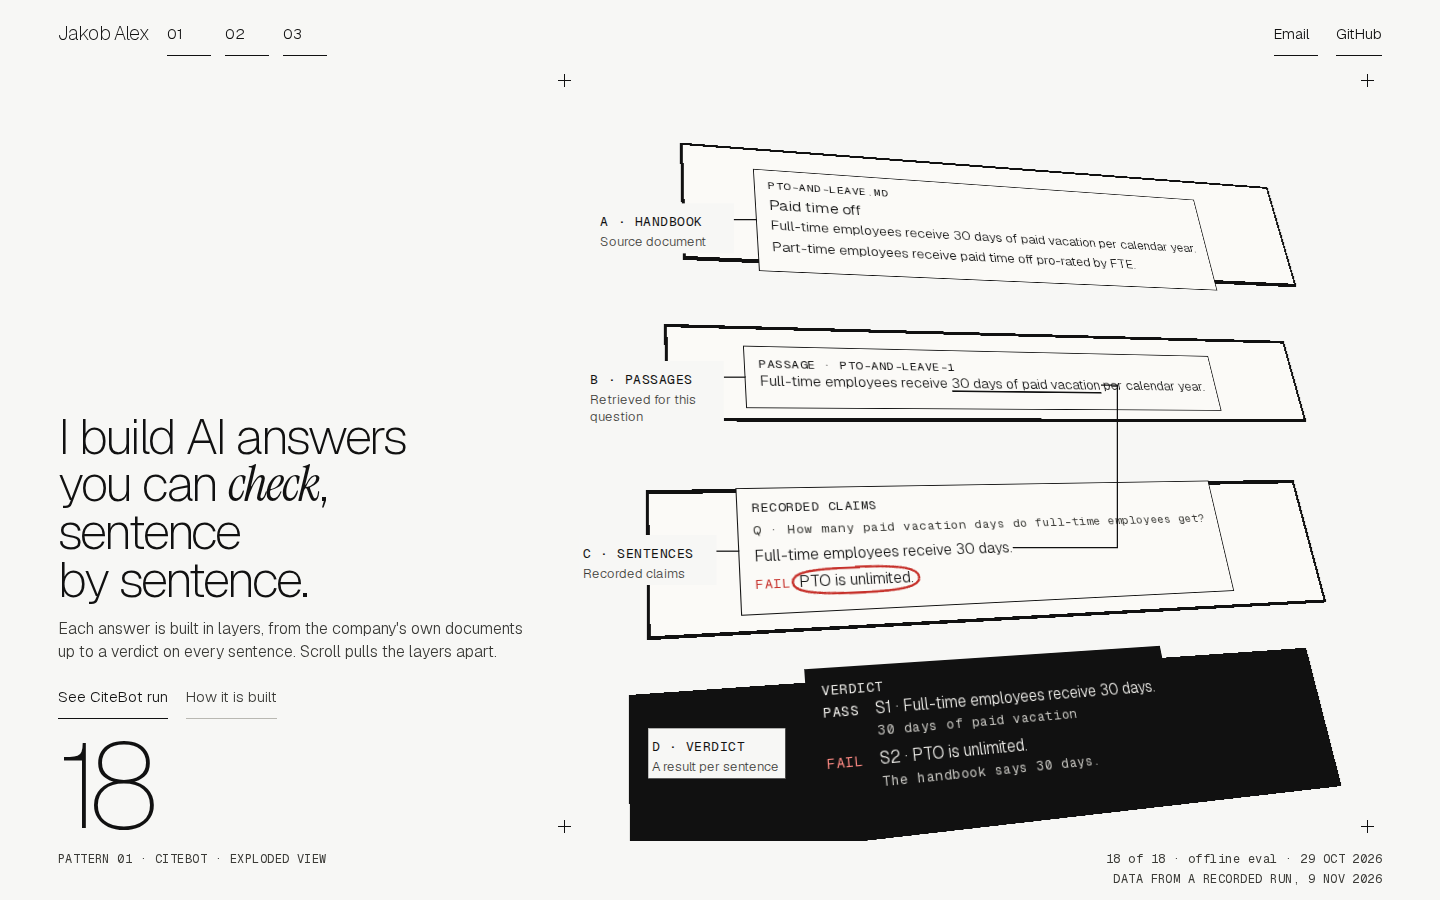
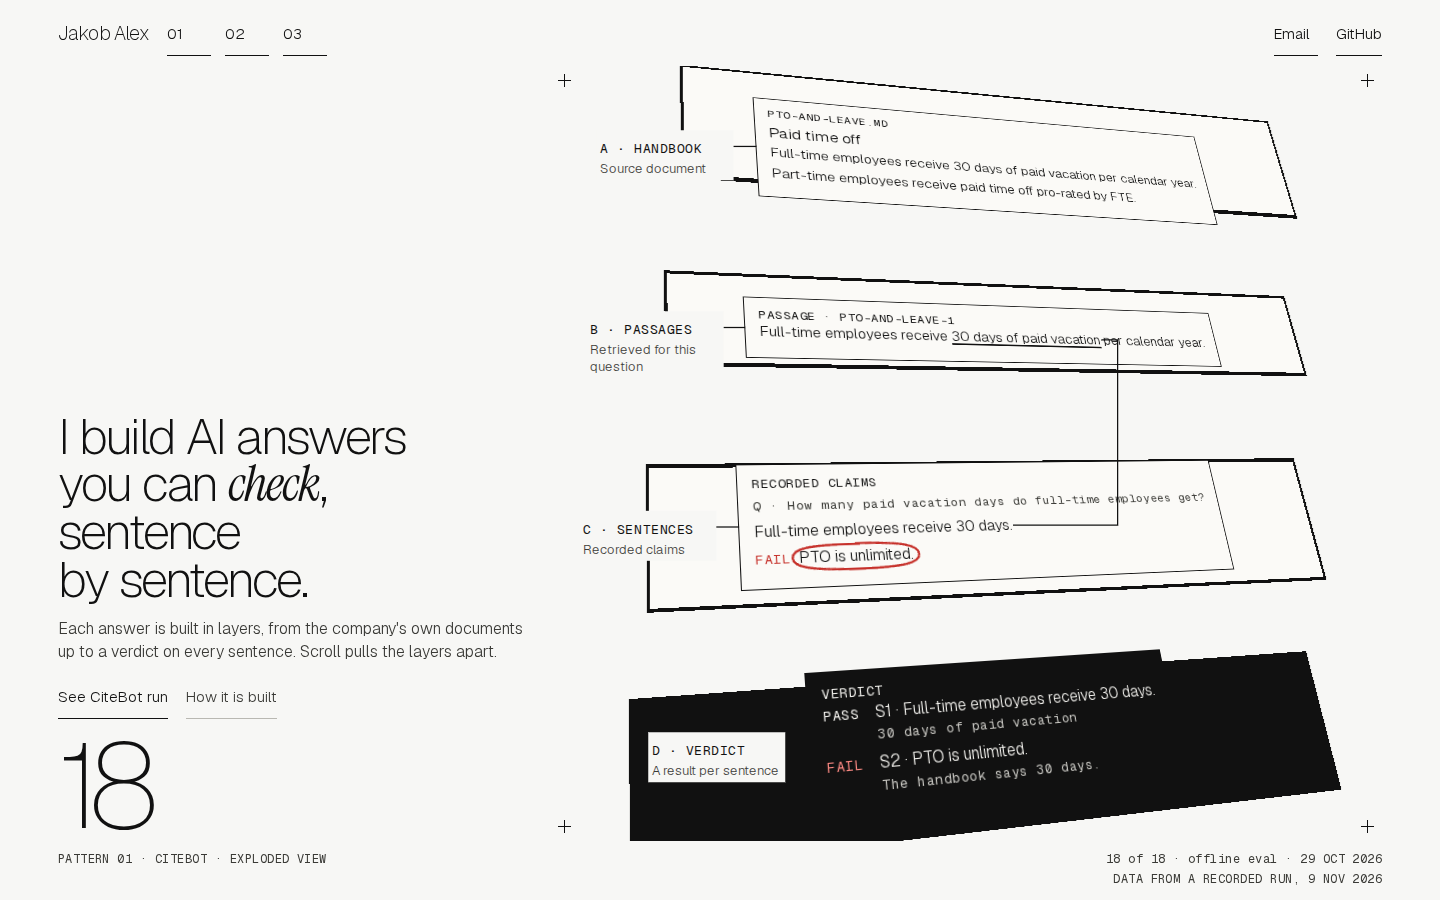
Keep the desktop verdict title clear through the scroll.
The fit loop lifts the stack when only one edge overflows, so the VERDICT title stays uncovered and the sheet stays above the footer.

diff --git a/test/schnitt.spec.ts b/test/schnitt.spec.ts
@@ -334,3 +334,42 @@ for (const height of [844, 780]) {
     expect(report.tie!.dy, JSON.stringify(report.tie)).toBeLessThanOrEqual(3);
   });
 }
+
+test("desktop sheet titles stay uncovered and the verdict stays in frame through the scroll", async ({ page }) => {
+  await page.setViewportSize({ width: 1440, height: 900 });
+  await page.goto("/");
+  await expect(page.locator(".schnitt-stage")).toHaveAttribute("data-gl", "ready");
+  await page.evaluate(() => document.fonts.ready);
+  for (const share of [0, 0.5, 1]) {
+    await page.evaluate((value) => {
+      const node = document.querySelector(".schnitt");
+      const range = node ? node.clientHeight - window.innerHeight : 0;
+      window.scrollTo(0, range * value);
+    }, share);
+    await page.waitForTimeout(120);
+    const report = await page.evaluate(() => {
+      const covered: string[] = [];
+      for (const title of document.querySelectorAll<HTMLElement>(".sheet .file")) {
+        const words = title.firstChild;
+        if (!words?.textContent) continue;
+        const glyph = document.createRange();
+        const length = words.textContent.length;
+        const hidden = [0, Math.floor(length / 2), length - 1].some((index) => {
+          glyph.setStart(words, index);
+          glyph.setEnd(words, index + 1);
+          const box = glyph.getBoundingClientRect();
+          const hit = document.elementFromPoint(box.left + box.width / 2, box.top + box.height / 2);
+          return !hit || !(title.contains(hit) || hit.contains(title));
+        });
+        if (hidden) covered.push((title.textContent ?? "").trim());
+      }
+      const stage = document.querySelector(".schnitt-stage")?.getBoundingClientRect();
+      const foot = document.querySelector(".schnitt-foot")?.getBoundingClientRect();
+      const verdict = document.querySelector(".sheet.verdict")?.getBoundingClientRect();
+      return { covered, below: stage && verdict ? verdict.bottom - stage.bottom : 99, foot: foot && verdict ? verdict.bottom - foot.top : 99 };
+    });
+    expect(report.covered, `scroll ${share}`).toEqual([]);
+    expect(report.below, `scroll ${share}`).toBeLessThanOrEqual(0);
+    expect(report.foot, `scroll ${share}`).toBeLessThanOrEqual(0);
+  }
+});

diff --git a/components/schnitt-scene.ts b/components/schnitt-scene.ts
@@ -223,7 +223,7 @@ export function mountSchnittScene(stage: HTMLElement, canvas: HTMLCanvasElement)
     const rawH = sample?.cssH ?? 140;
     const fit = 1;
     const planeH = rawH * fit;
-    const gap0 = planeH * 0.78;
+    const gap0 = planeH * 0.95;
     const gap1 = planeH * 1.62;
     const gap = gap0 + progress * (gap1 - gap0);
     const x = phone ? 0 : width * 0.08;
@@ -275,17 +275,19 @@ export function mountSchnittScene(stage: HTMLElement, canvas: HTMLCanvasElement)
     css.render(scene, camera);
     if (!phone) {
       let fitted = gap;
-      for (let pass = 0; pass < 3; pass += 1) {
+      let lift = 0;
+      for (let pass = 0; pass < 4; pass += 1) {
         const root = stage.getBoundingClientRect();
         const rects = [...stage.querySelectorAll<HTMLElement>(".sheet")].map((sheet) => sheet.getBoundingClientRect());
         if (rects.length !== cards.length) break;
-        const overflow = Math.max(0, ...rects.map((rect) => rect.bottom)) - (root.bottom - 12);
-        const topOverflow = root.top + 8 - Math.min(...rects.map((rect) => rect.top));
-        const excess = Math.max(overflow, topOverflow);
-        if (excess <= 1) break;
-        fitted = Math.max(gap0, fitted - excess / 1.5);
+        const below = Math.max(0, ...rects.map((rect) => rect.bottom)) - (root.bottom - 12);
+        const above = root.top + 8 - Math.min(...rects.map((rect) => rect.top));
+        if (below <= 1 && above <= 1) break;
+        if (below > 1 && above < -1) lift += Math.min(below, -above);
+        else if (above > 1 && below < -1) lift -= Math.min(above, -below);
+        else fitted = Math.max(gap0, fitted - Math.max(below, above) / 1.5);
         cards.forEach((item, index) => {
-          item.rig.position.y = (1.5 - index) * fitted;
+          item.rig.position.y = (1.5 - index) * fitted + lift;
         });
         scene.updateMatrixWorld(true);
         renderer.render(scene, camera);

diff --git a/docs/specs/schnitt-hero.md b/docs/specs/schnitt-hero.md
@@ -69,8 +69,9 @@ Measured on this machine after `npm run build`. Playwright Chromium launches wit
 | WebGL blocked still shows the sheets | `a blocked WebGL context still shows the sheets` | Pass, Chromium and WebKit |
 | Canvas pixels are not blank | `the WebGL canvas draws ink` | Pass on Chromium. Skipped on WebKit |
 | axe, console, hero CLS | `axe, console, and hero layout shift` | Pass. 0 violations, 0 console errors, CLS 0. Chromium and WebKit |
-| Frame time, 4× CPU, software WebGL | `docs/evidence/schnitt-frame-timing.json` | 390×844, WebGL on: 73 frames, median 16.70 ms, p95 16.70 ms, max 16.80 ms, share above 20 ms = 0. 1440×900, WebGL on: 64 frames, median 16.70 ms, p95 16.80 ms, max 166.70 ms, share above 20 ms = 0.02 (one hitch). |
-| Typecheck, lint, unit, copy scan, Chromium, WebKit | `npm run verify` | Pass. 15 unit tests. Copy scan ok. Playwright 69 passed, 3 skipped. The skips are the WebKit copies of the Chromium-only still capture, the canvas-ink test, and the frame-time test |
+| Frame time, 4× CPU, software WebGL | `docs/evidence/schnitt-frame-timing.json` | 390×844, WebGL on: 73 frames, median 16.70 ms, p95 16.70 ms, max 16.80 ms, share above 20 ms = 0. 1440×900, WebGL on, with the fit loop: 73 frames, median 16.70 ms, p95 16.80 ms, max 33.40 ms, share above 20 ms = 0.014. |
+| Desktop 1440×900: every sheet title uncovered and the verdict inside the stage, above the footer, at scroll 0, mid and end | `desktop sheet titles stay uncovered and the verdict stays in frame through the scroll` | Pass, Chromium and WebKit |
+| Typecheck, lint, unit, copy scan, Chromium, WebKit | `npm run verify` | Pass. 15 unit tests. Copy scan ok. Playwright 71 passed, 3 skipped. The skips are the WebKit copies of the Chromium-only still capture, the canvas-ink test, and the frame-time test |
 | Screenshots at 1440×900 and 390×844, scroll 0, mid-scroll, reduced motion | `docs/evidence/` | Pass |
 | Real iPhone Safari | — | Not checked |
 | Real 60fps on a phone | — | Not checked |
